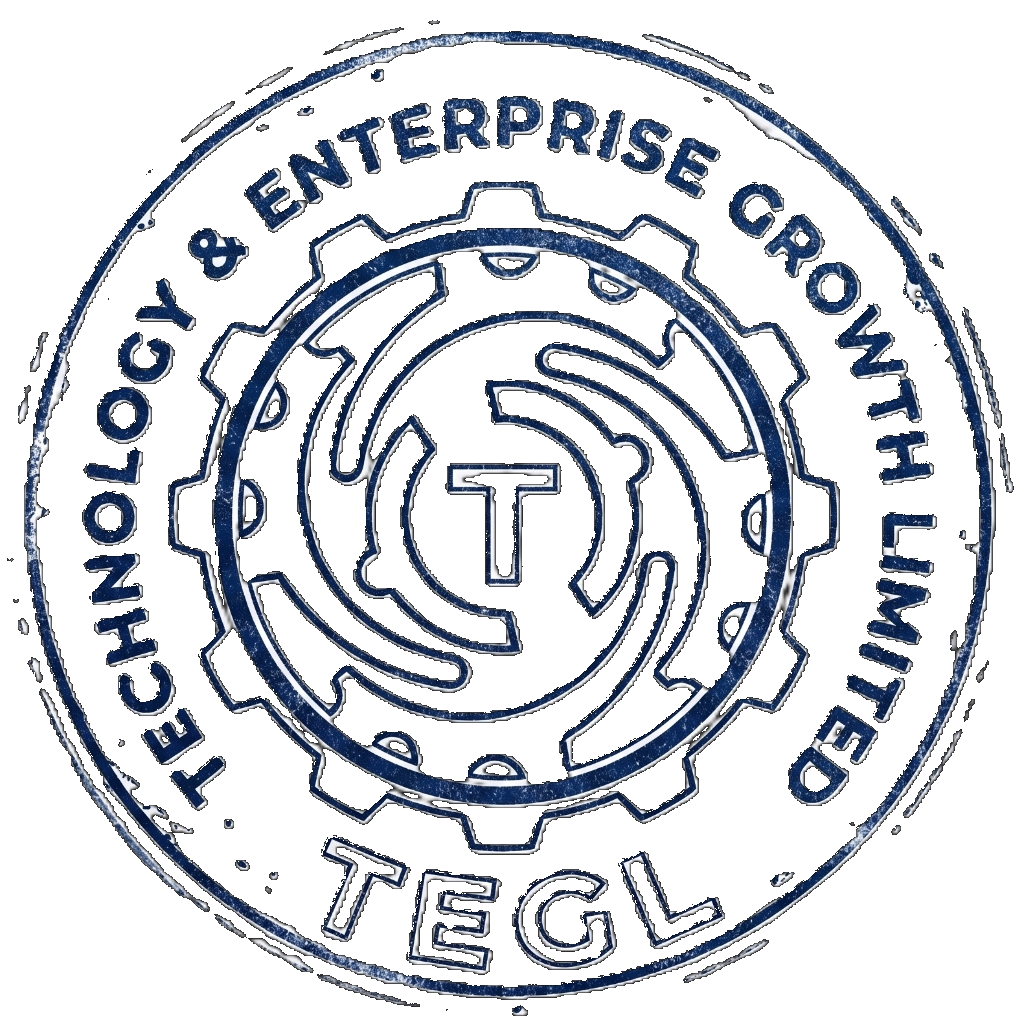
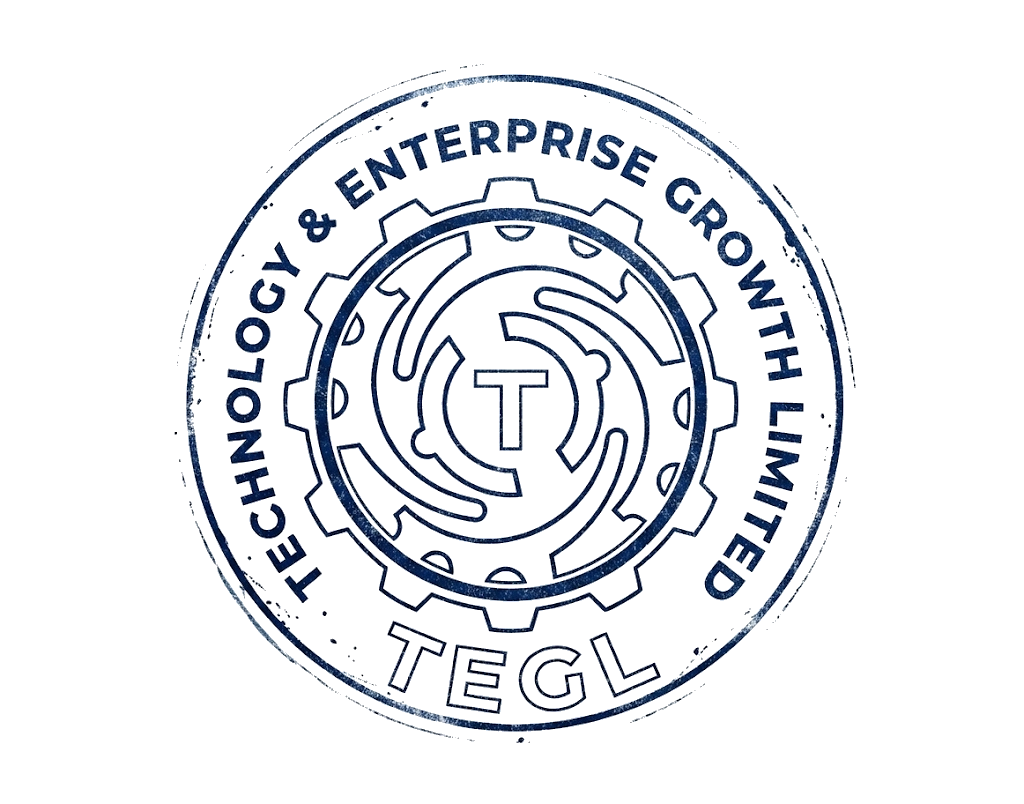
feat: update bill stamp with white-background source and update storefront stock visibility (hide numbers > 5, show urgency when <= 5)

diff --git a/frontend/src/components/Storefront.jsx b/frontend/src/components/Storefront.jsx
@@ -71,7 +71,17 @@ function ProductCard({ product, cartQty, onAdd, onRemove }) {
         <div style={{ display: 'flex', justifyContent: 'space-between', alignItems: 'flex-end', marginTop: 'auto' }}>
           <div>
             <div style={{ fontSize: '1.15rem', fontWeight: 800, color: '#0f172a' }}>{fmt(product.current_price)}</div>
-            <div style={{ fontSize: '0.7rem', color: '#94a3b8', marginTop: '2px' }}>{inStock ? `${product.stock_level} in stock` : 'Unavailable'}</div>
+            <div style={{ fontSize: '0.72rem', marginTop: '2px' }}>
+              {!inStock ? (
+                <span style={{ color: '#ef4444', fontWeight: 600 }}>Out of stock</span>
+              ) : product.stock_level <= 5 ? (
+                <span style={{ color: '#dc2626', fontWeight: 700 }}>
+                  🔥 Only {product.stock_level} left!
+                </span>
+              ) : (
+                <span style={{ color: '#16a34a', fontWeight: 600 }}>✓ In Stock</span>
+              )}
+            </div>
           </div>
           {inStock && (
             cartQty === 0 ? (
